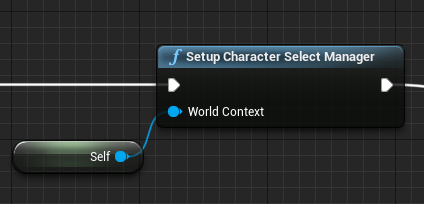
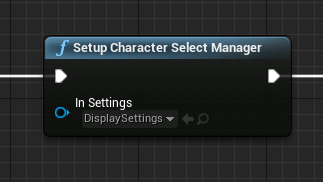
sd
ds

diff --git a/WidgetsSetup.md b/WidgetsSetup.md
@@ -1,0 +1,84 @@
+---
+menu: SettingUpTheWidgets 
+tab: true
+parent: Setup
+---
+
+# Setting up the Widgets
+
+## Setting up the Character select Display Widget
+
+We need to first start by creating our Primary foundation widget, this would be
+our display system for showing the Character Select System.
+<br/><br/>
+![Alt text](Image/CreateDisplay.png?raw=true "ManagerNode")
+<br/><br/>
+Right click anywhere in the content browser and choose new blueprint,  if you type in CSP
+this will filter in all the Character Select Plus classes, if you scroll down too the 
+bottom a little, you should see the widgets.
+We want to create a CSP_Display.
+
+You will notice that if you open the widget up, it will be blank like any normal user created
+widget. You can basically do anything you want in here, the system is built to be designer friendly.
+However if you press compile you will notice the BP compiler will throw a fit asking for a UGridPanel 
+called DisplayGrid.
+<br/><br/>
+![Alt text](Image/DisplayCompileFail.png?raw=true "ManagerNode")
+<br/><br/>
+This "DisplayGrid" is the container that will be displaying your Character Slots, it needs to be created by 
+the user manually, this is very easy, this is called Widget binding.
+<br/><br/>
+![Alt text](Image/DisplayGridDrop.png?raw=true "ManagerNode")
+<br/><br/>
+Search your Pallete for a Grid Panel, the pallete is located in the top left corner of your UMG Widget.
+Drag and drop this on too your root widget.(Note for designers, this does not have to be the root widget, can go
+virtually anywhere and can even be the root its self!)
+
+The next step is too rename the widget to DisplayGrid once you have done this, if you try and compile it should not
+throw any errors!
+<br/><br/>
+![Alt text](Image/DisplayGridCompile.png?raw=true "ManagerNode")
+<br/><br/>
+
+## Setting up the Character Display Slot Widget
+
+Now that we have setup the main display, we need to setup our Slots for displaying our character information.
+Once again create another blueprint class from the content browser, but this time we want to choose a 
+CSP_Slot as the class.
+<br/><br/>
+![Alt text](Image/SlotCreate.png?raw=true "ManagerNode")
+<br/><br/>
+
+Once again if we open this widget up and try to compile it we get a compiler error, it will throw an error asking for
+a Image Widget called "CharacterIcon" this is the only required widget for the slot, it can go anywhere and be wrapped 
+in anything.
+
+Drag a image widget in too your canvas and name it "CharacterIcon", when you compile you should get no errors.
+<br/><br/>
+![Alt text](Image/SlotExample.png?raw=true "ManagerNode")
+<br/><br/>
+Here is an example of what it could look like for a basic slot.
+<br/><br/>
+(Note: will cover a full explination of how to setup a general type of slot to work correctly, with all UMG settings later on)
+
+## Setting up the Badge Widget
+
+Finally once again create another blueprint class, select CSP_Badge and create it, open the badge up and this will also request a
+widget bind for Image called "BadgeIcon" add the Image too your canvas and name it "BadgeIcon", it will look something like this.
+<br/><br/>
+![Alt text](Image/BadgeIcon.png?raw=true "ManagerNode")
+<br/><br/>
+
+## Assigning our Slot & Badge class to our system
+
+The system is setup so you may use different types of Slot & badge type Style classes, so we are going to assign these classes
+to our display widget. Start by opening up your Display Widget you created.
+Open trhe Graph tab on the top right, and in your variable details panel bottom left, find or search for class or CSP display 
+this should bring up the Slot & badge class, this is where you can assign what widgets to use.
+<br/><br/>
+![Alt text](Image/DisplayClassAssign.png?raw=true "ManagerNode")
+<br/><br/>
+
+This now gives us all the basic widget setups, however this does not include styling & visual setup for things like 
+slot states, Normal, Disabled, taken etc. Neither does this include setting badges up for players, but this is the 
+bare minium we will cover these other things later on.

diff --git a/ManagerSetup.md b/ManagerSetup.md
@@ -15,10 +15,25 @@ Multiplayer Note: If your game is not standalone(SinglePlayer) make sure to spaw
 from your Authoritative client(dedicated server, listen server)
 <br/><br/>
 ![Alt text](Image/ManagerNode.png?raw=true "ManagerNode")
-
+<br/><br/>
 A ideal place to do this would be the game mode.
 
+##### Creating your Character Select Manager Settings
+Right click anywhere in the content browser that is not on an asset under misscellaneous you should see 
+a data asset choose this class.
+<br/><br/>
+![Alt text](Image/CreateDataAsset.png?raw=true "ManagerNode")
+<br/><br/>
+Next you will see a Data picker window open, search and find CSP_DisplaySettings then click select.
+This will then create a data asset in your content browser, you will now be able to select this from the
+drop down class list in the function Setup Character Select Manager.
+<br/><br/>
+![Alt text](Image/DataAssetPick.png?raw=true "ManagerNode")
+<br/><br/>
+More details on Display Settings class later on.
 ## Setting up the Manager Component
+The display Settings is a data asset that helps to define how your Character Select system will act
+and how the rules for it will be defined. First we need to create a data asset for the display class.
 
 The Manager component is a communcation system that is used to communicate with the character
 Select System, allowing you to register players and send input.
@@ -39,8 +54,10 @@ Note: if a player tries to send an action to the Character Select System
 with out first registering, the input will fail and you will recieve an error 
 in your log.
 
+
+<br/><br/>
+![Alt text](Image/RegisterController.png?raw=true "ManagerNode")
+
+
 Multiplayer note: When registering your system make sure to do this on the server
 side.
-
-// insert image here
-

diff --git a/LoadingTheDisplay.md b/LoadingTheDisplay.md
@@ -1,0 +1,11 @@
+---
+menu: LoadingTheDisplay 
+tab: true
+---
+# Loading the Display
+In this section we will cover how to load your character data and populate your
+character select widget.
+
+
+## Populating the display with data
+

diff --git a/Setup.md b/Setup.md
@@ -1,0 +1,6 @@
+---
+menu: Setup 
+tab: true
+---
+
+# How to set the system up
